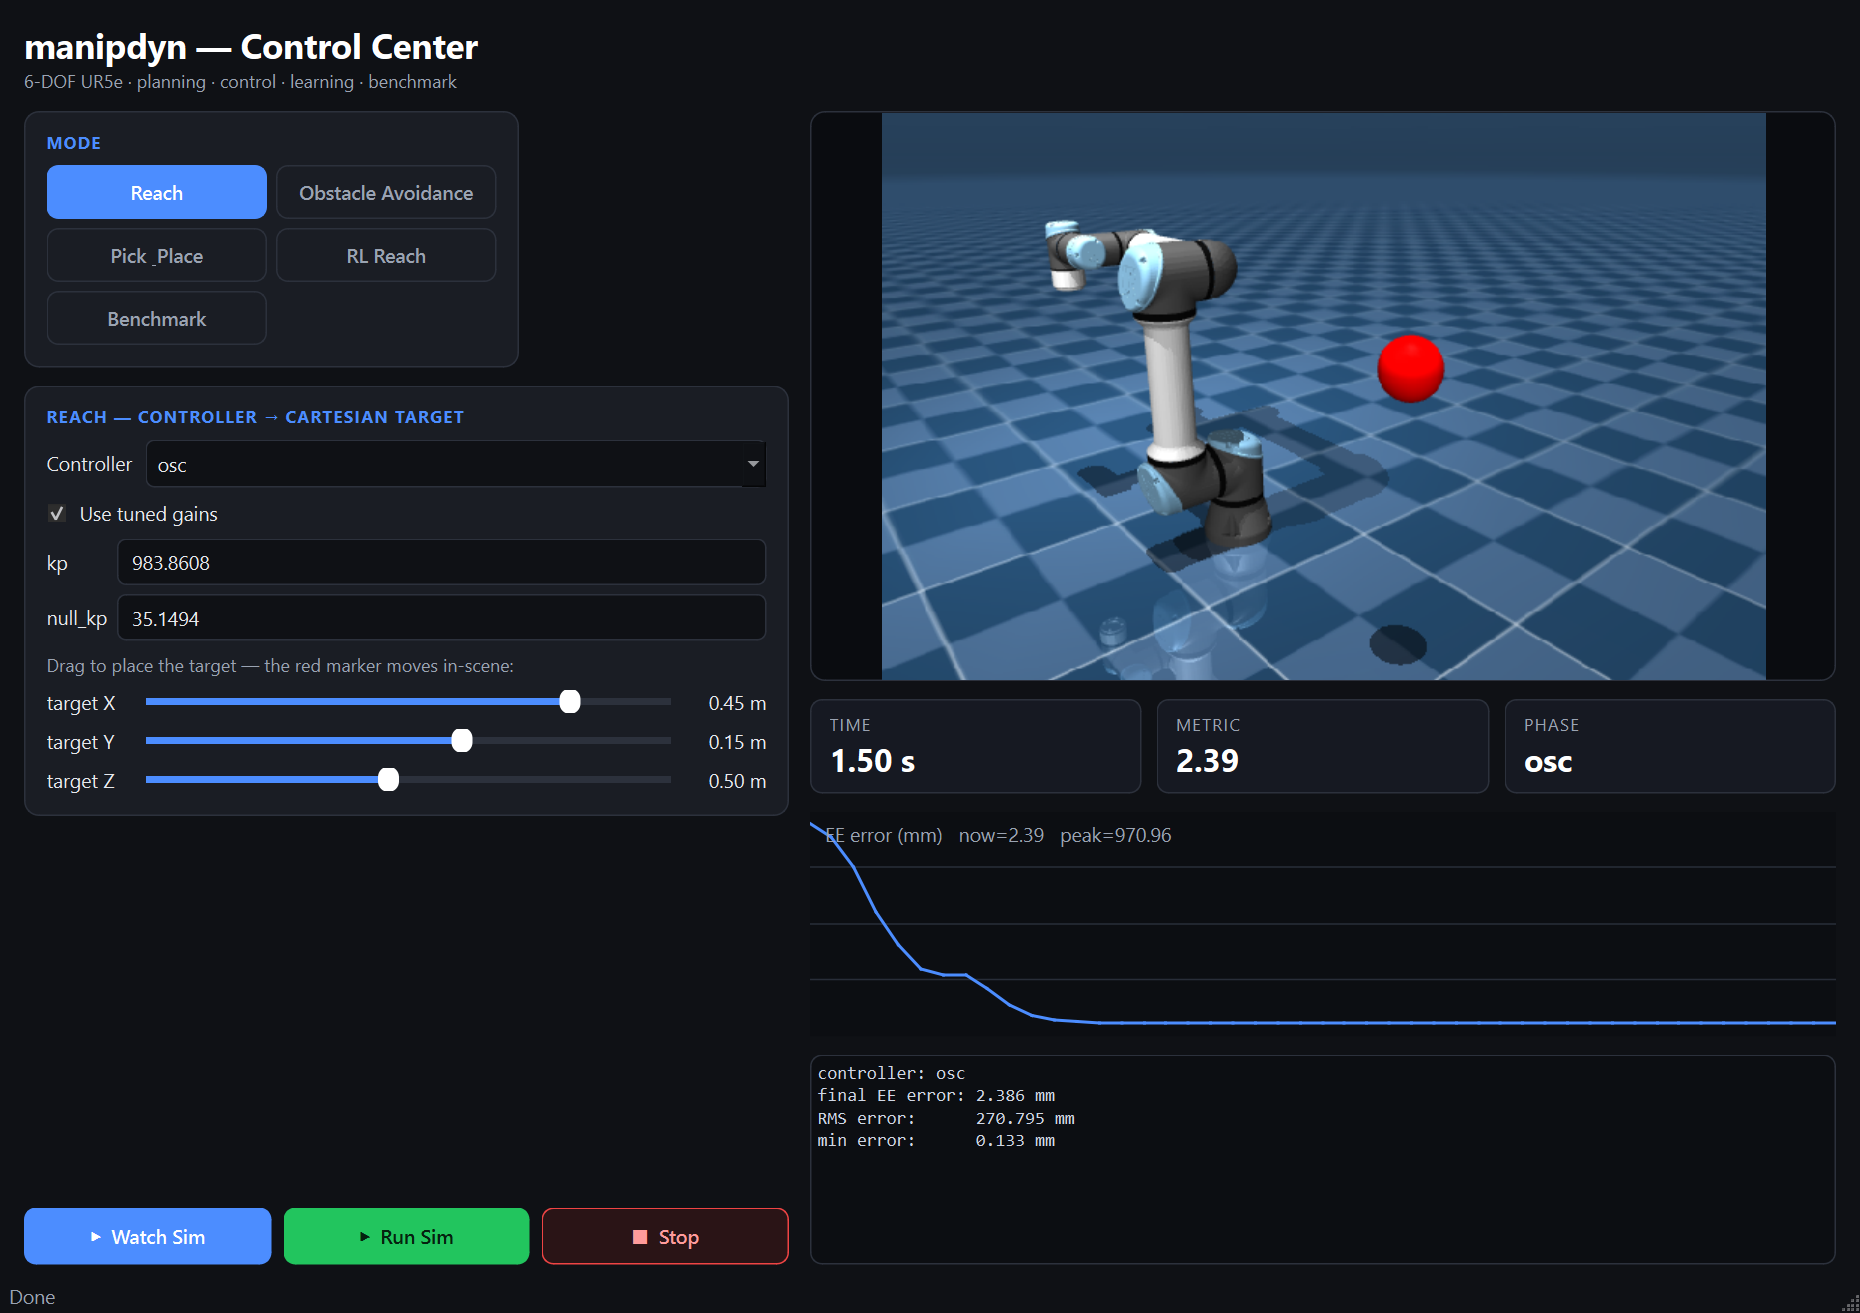
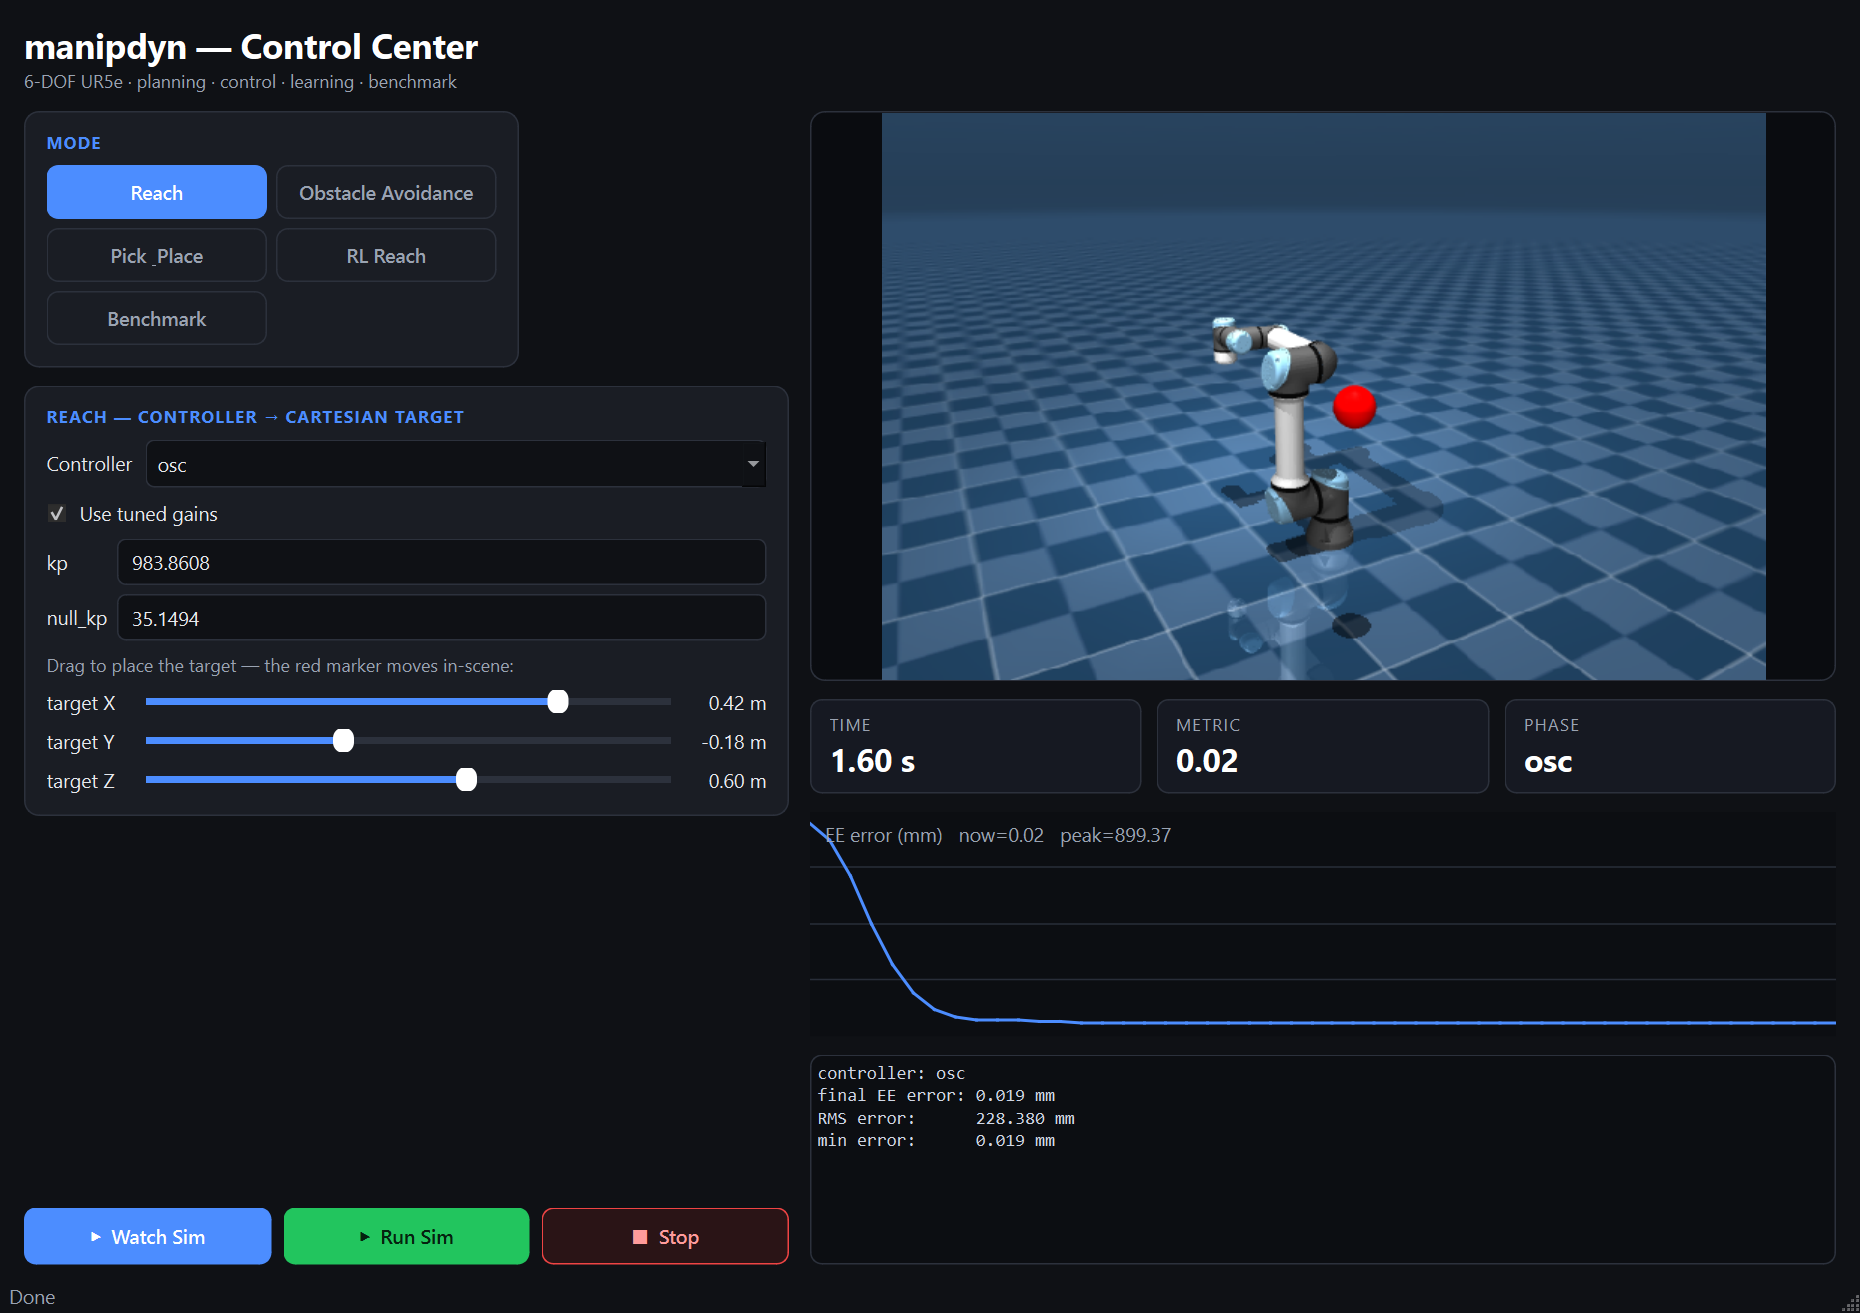
Frame the GUI embedded view with a per-scene camera and recapture cleaner media
The embedded live view used the default camera, a steep angle that made the reach look like it skimmed the floor. Add per-scene framed free cameras (scene_base/obstacle/pick) used by both the live render and the idle preview, and recapture gui.png/gui.gif on an elevated, converged reach.

diff --git a/manipdyn/src/manipdyn/gui/app.py b/manipdyn/src/manipdyn/gui/app.py
@@ -98,6 +98,26 @@ QStatusBar {{ color: #9aa3b2; }}
 """
 
 
+# Framed free cameras per scene, so the embedded view always reads cleanly
+# (not a steep top-down that makes the arm look like it touches the floor).
+_CAMS = {
+    "scene_base": dict(lookat=(0.05, -0.05, 0.5), distance=2.0, azimuth=150, elevation=-18),
+    "scene_obstacle": dict(lookat=(-0.35, 0.25, 0.4), distance=2.1, azimuth=55, elevation=-22),
+    "scene_pick": dict(lookat=(-0.18, -0.31, 0.42), distance=1.7, azimuth=215, elevation=-20),
+}
+
+
+def _make_cam(scene: str) -> mujoco.MjvCamera:
+    cam = mujoco.MjvCamera()
+    cam.type = mujoco.mjtCamera.mjCAMERA_FREE
+    c = _CAMS.get(scene, _CAMS["scene_base"])
+    cam.lookat[:] = c["lookat"]
+    cam.distance = c["distance"]
+    cam.azimuth = c["azimuth"]
+    cam.elevation = c["elevation"]
+    return cam
+
+
 def _card(title: str) -> tuple[QFrame, QVBoxLayout]:
     frame = QFrame()
     frame.setObjectName("card")
@@ -264,6 +284,8 @@ class ObstacleEngine:
     metric = "EE error to goal (mm)"
     steps_per_tick = 16
 
+    scene = "scene_obstacle"
+
     def __init__(self, planner_name, obstacle_xy=None, goal_xyz=None):
         self.planner_name = planner_name
         self.obstacle_xy = obstacle_xy
@@ -332,6 +354,7 @@ class ObstacleEngine:
 class PickPlaceEngine:
     metric = "cube-to-target (mm)"
     steps_per_tick = 18
+    scene = "scene_pick"
 
     def prepare(self):
         self.world = World(scene=pick_place.SCENE, ee_site=pick_place.EE_SITE)
@@ -374,6 +397,7 @@ class PickPlaceEngine:
 class RLEngine:
     metric = "EE-to-goal (mm)"
     steps_per_tick = 2
+    scene = "scene_base"
 
     def __init__(self, seed):
         self.seed = seed
@@ -499,6 +523,7 @@ class ManipdynGUI(QMainWindow):
         self.viewer = None
         self.preview_world: World | None = None
         self.preview_renderer: mujoco.Renderer | None = None
+        self._cam = _make_cam("scene_base")
         self.gain_fields: dict[str, QLineEdit] = {}
         self._pending_watch = False
 
@@ -825,6 +850,7 @@ class ManipdynGUI(QMainWindow):
     def _on_prepared(self, engine) -> None:
         self.engine = engine
         self.stat_err[1].setText("—")
+        self._cam = _make_cam(getattr(engine, "scene", "scene_base"))
         try:
             self.renderer = mujoco.Renderer(engine.world.model, height=400, width=620)
         except Exception as exc:
@@ -868,7 +894,7 @@ class ManipdynGUI(QMainWindow):
             self._finish()
 
     def _render_embedded(self) -> None:
-        self.renderer.update_scene(self.engine.world.data)
+        self.renderer.update_scene(self.engine.world.data, camera=self._cam)
         frame = self.renderer.render()
         img = QImage(
             frame.data, frame.shape[1], frame.shape[0], 3 * frame.shape[1], QImage.Format_RGB888
@@ -944,6 +970,9 @@ class ManipdynGUI(QMainWindow):
                 self.view.setPixmap(QPixmap())
                 self.view.setText("Configure, then Watch Sim or Run Sim")
                 return
+            self._cam = _make_cam(
+                "scene_obstacle" if mode == "Obstacle Avoidance" else "scene_base"
+            )
             self.preview_world = w
             self.preview_renderer = mujoco.Renderer(w.model, height=400, width=620)
             self._render_preview()
@@ -953,7 +982,7 @@ class ManipdynGUI(QMainWindow):
     def _render_preview(self) -> None:
         if self.preview_renderer is None or self.preview_world is None:
             return
-        self.preview_renderer.update_scene(self.preview_world.data)
+        self.preview_renderer.update_scene(self.preview_world.data, camera=self._cam)
         frame = self.preview_renderer.render()
         img = QImage(
             frame.data, frame.shape[1], frame.shape[0], 3 * frame.shape[1], QImage.Format_RGB888